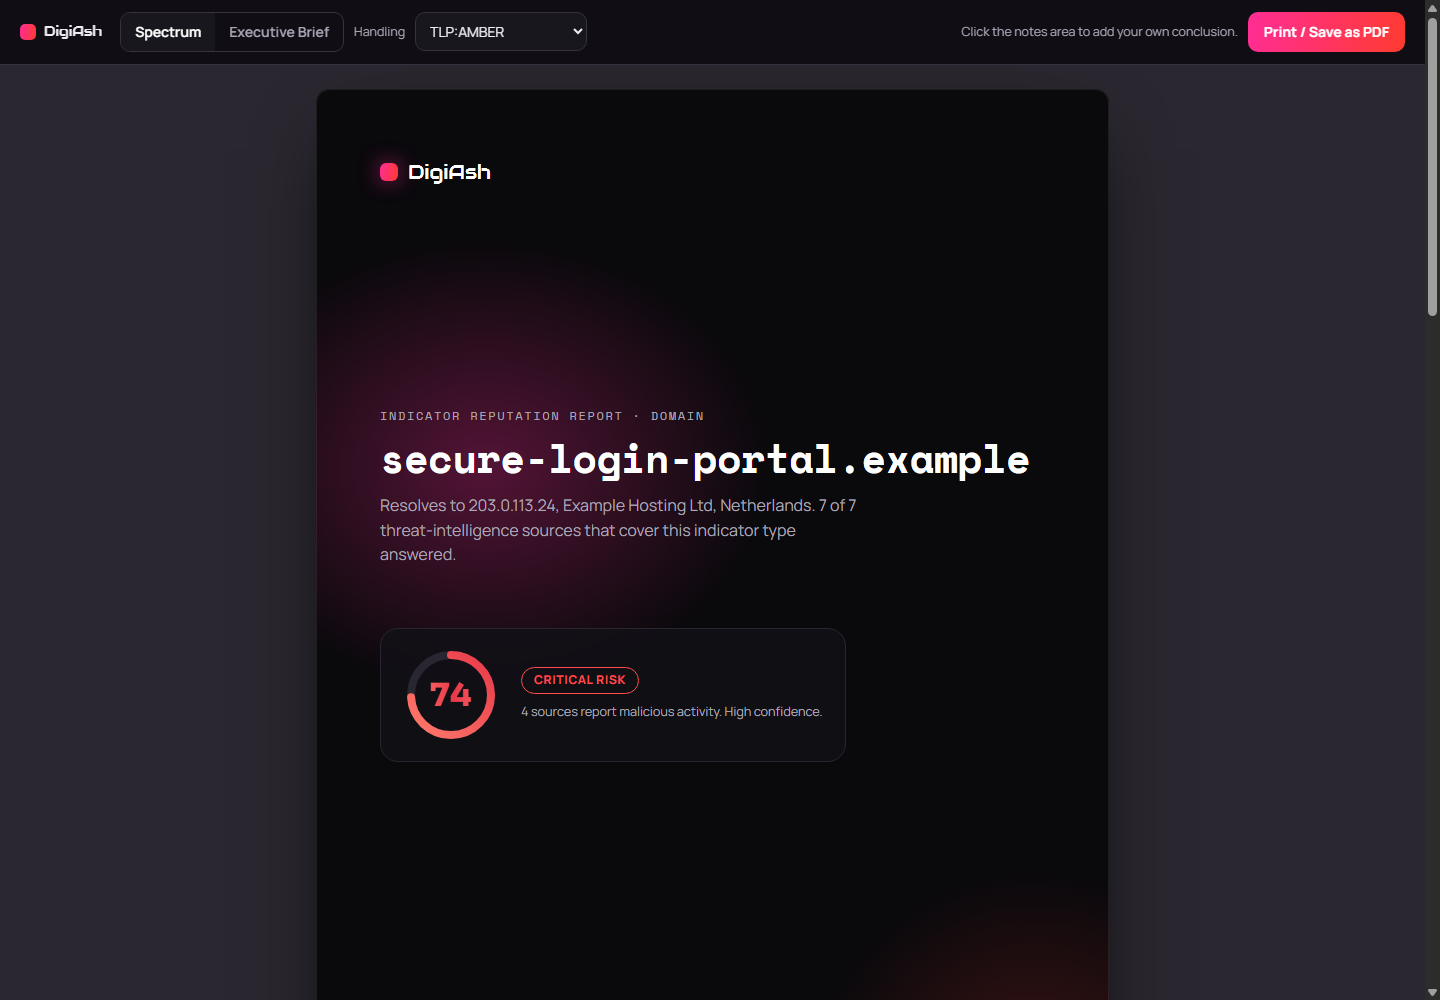
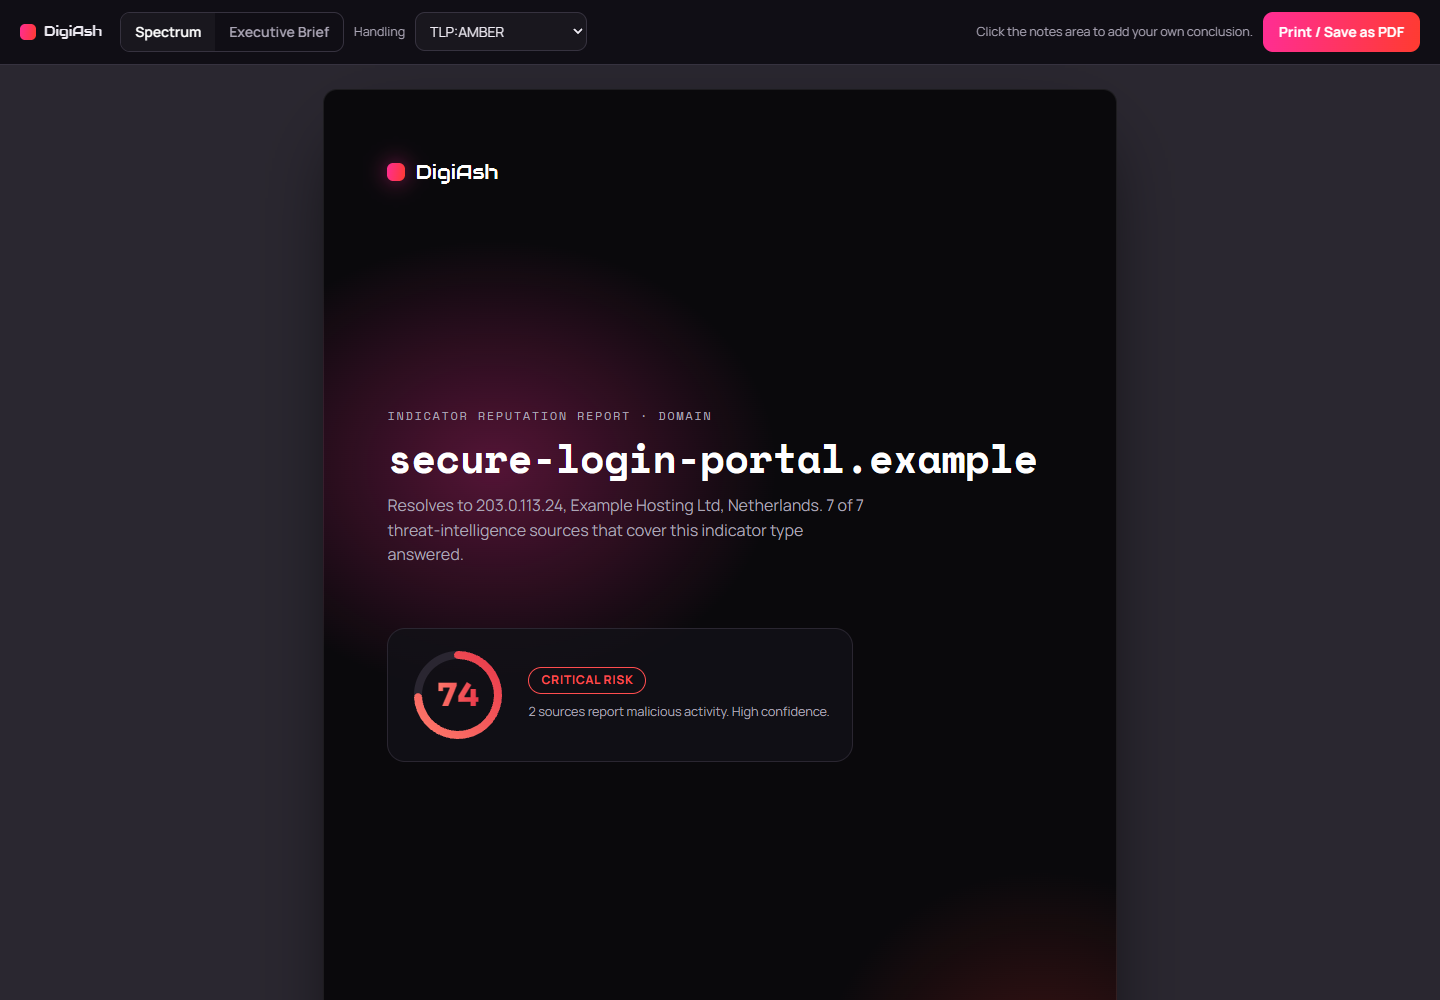
Explain the risk score with a worked example; update screenshots

diff --git a/README.md b/README.md
@@ -37,7 +37,7 @@ Each of those services has its own website and account. Checking one suspicious 
 
 **A search result.** The score from 0 to 100, how confident DigiAsh is in it, the most important findings, and which services contributed most:
 
-![A search result showing a risk score of 74](images/results.png)
+![A search result scoring 74: three sources each found a little, and together they agree](images/results.png)
 
 **A printable report.** One click turns a result into a report you can save as a PDF and attach to an investigation:
 
@@ -82,16 +82,64 @@ This model is called **"bring your own key"**: each user connects their own free
 
 ## How the risk score works
 
-Each service gives its own kind of answer: one says "9 out of 92 antivirus engines flagged this", another says "a sandbox saw this file behave maliciously", another says "this address is on an allow-list of legitimate services".
+Every search ends in one number from 0 to 100. It isn't an average and it isn't a black box. 🧮 **[Full explanation, with a calculator you can try](https://digiash.com/scoring)**
 
-DigiAsh turns each answer into a measure of evidence, and takes into account how reliable that kind of evidence usually is. It then combines them in a way that behaves sensibly:
+### The idea
 
-- **Silence doesn't count against anything.** If a service has never seen an indicator, it neither raises nor lowers the score.
-- **Agreement raises the score.** Two independent services both reporting a problem is stronger evidence than one.
-- **One strong finding is enough on its own.** A confirmed malware sample scores high even if other services haven't seen it yet.
-- **Good evidence lowers it.** If a service recognises the address as a well-known legitimate service, the score comes down.
+Think of the nine sources as independent witnesses. Each one either saw something suspicious or didn't, and some witnesses are more reliable than others:
 
-Alongside the score, DigiAsh shows a **confidence level** (how many of the relevant services actually answered) and a breakdown of which services drove the score, so the number is never a black box.
+1. **Each source gives evidence of some strength.** Two antivirus engines flagging a site is mild evidence; nine is strong. A source with nothing on record gives none.
+2. **Some sources count for more.** Curated malware feeds that list only confirmed threats are trusted more than broad reputation scores.
+3. **Agreement adds up.** Each finding shrinks the chance that the target is harmless. Sources that agree push the score up quickly, and silence never pulls a real finding down.
+
+### A worked example
+
+The [sample search](https://digiash.com/sample) checks `secure-login-portal.example`, a six-day-old domain. Seven sources looked; three found something, none of them conclusive:
+
+| Source | What it found | Strength | × Trust | = Contribution |
+|---|---|---|---|---|
+| urlscan.io | scanner score 75/100 | 0.60 | 0.80 | **0.48** |
+| VirusTotal | 2 of 92 engines flag it | 0.39 | 0.90 | **0.35** |
+| IPQualityScore | fraud score 80 | 0.40 | 0.60 | **0.24** |
+
+Each contribution leaves a chance the source is wrong (1 − 0.48 = 0.52, and so on). The domain is harmless only if **all three** are wrong:
+
+> 0.52 × 0.65 × 0.76 ≈ 0.255, so the chance something is really there is 1 − 0.255 = 0.745 → **score 74, critical**
+
+No single source is above 48, but together they reach 74. That is the point of combining evidence.
+
+### Why not an average?
+
+Because most sources have never heard of most threats. If a curated malware feed confirms an address and seven other sources have no record of it, an average gives about **12** (low risk), burying a confirmed threat. DigiAsh gives **95** (critical). An average would also *fall* as more sources are connected, for the same evidence.
+
+### Signs of a legitimate target, and how sure the score is
+
+- **Benign evidence lowers the score.** An allow-list entry or a sandbox's "whitelisted" verdict can cut the score by up to 60%.
+- **Levels follow the score:** low 0–14, medium 15–39, high 40–69, critical 70–100.
+- **Confidence is shown separately:** how many of the sources that cover this kind of indicator actually answered. A low score from one source isn't presented as a clean bill of health.
+
+<details>
+<summary><b>The formula and each source's weighting</b></summary>
+
+```
+score = 100 × (1 − Π(1 − trust × strength)) × (1 − 0.6 × benign)
+```
+
+| Source | Strongest evidence | Trust |
+|---|---|---|
+| abuse.ch (MalwareBazaar, ThreatFox, URLhaus) | known malware sample 0.95; listed indicator 0.75+ | 0.95 |
+| VirusTotal | 1 − e^(−engines/4): 1 engine 0.22, 9 engines 0.89 | 0.90 |
+| AbuseIPDB | its abuse confidence; allow-list counts as benign | 0.85 |
+| Hybrid Analysis | sandbox "malicious" 0.85+; "whitelisted" counts as benign | 0.85 |
+| urlscan.io | malicious verdict 0.85, else score × 0.8 | 0.80 |
+| IPQualityScore | phishing or malware 0.75; fraud score 90+ 0.60 | 0.60 |
+| AlienVault OTX | 1 − e^(−pulses/6): 6 pulses 0.63 | 0.60 |
+| PulseDive | its risk rating, critical 0.85 | 0.60 |
+| LeakIX | exposed services up to 0.50; ransomed data 0.60 | 0.50 |
+
+The calculator on the website runs a copy of the exact production code, and an automated test checks on thousands of random cases that the two always agree.
+
+</details>
 
 ## Security, explained simply
 
